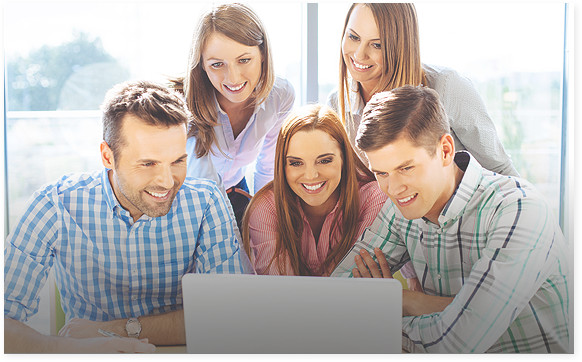
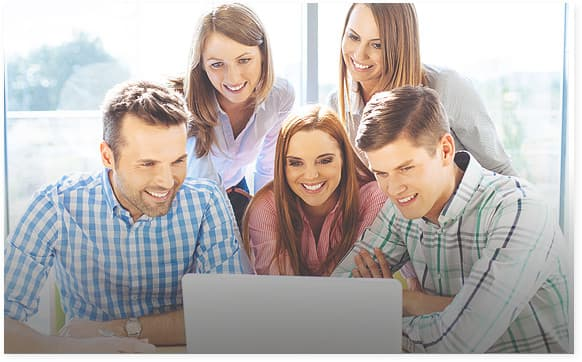
Optimized pictures

diff --git a/js/app.js b/js/app.js
@@ -146,4 +146,35 @@ $(document).ready(function () {
       1000
     );
   });
+
+  //  Lazy load
+  const [...images] = document.querySelectorAll('img')
+
+  const options = {
+    root: null,
+    rootMargin: '0px',
+    threshold: 0.1
+  }
+
+  function handleImg(myImg, observer) {
+    myImg.forEach(myImgSingle => {
+      console.log(myImgSingle.intersectionRatio)
+      if (myImgSingle.intersectionRatio > 0) {
+        loadImage(myImgSingle.target)
+      }
+    })
+  }
+
+  function loadImage(image) {
+    image.src = image.getAttribute('data')
+  }
+
+  const observer = new IntersectionObserver(handleImg, options)
+
+
+  images.forEach(img => {
+    observer.observe(img)
+  })
+
+
 });
